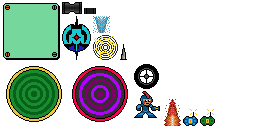
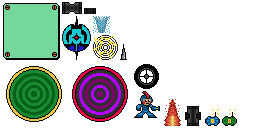
updated levelloader and level resources with cannon assets

Changed region(s): [[0.7188, 0.8125, 0.9375, 1.0]]

diff --git a/core/src/com/udacity/gamedev/gigagal/util/LevelLoader.java b/core/src/com/udacity/gamedev/gigagal/util/LevelLoader.java
@@ -123,7 +123,11 @@ public final class LevelLoader {
             } else if (item.get(Constants.LEVEL_IMAGENAME_KEY).equals(Constants.LATERAL_CANNON_SPRITE)) {
                 final Vector2 cannonPosition = imagePosition.add(Constants.LATERAL_CANNON_CENTER);
                 Gdx.app.log(TAG, "Loaded the cannon at " + cannonPosition);
-                level.getGrounds().add(new Cannon(cannonPosition));
+                level.getGrounds().add(new Cannon(cannonPosition, Enums.Orientation.LATERAL));
+            } else if (item.get(Constants.LEVEL_IMAGENAME_KEY).equals(Constants.LATERAL_CANNON_SPRITE)) {
+                final Vector2 cannonPosition = imagePosition.add(Constants.LATERAL_CANNON_CENTER);
+                Gdx.app.log(TAG, "Loaded the cannon at " + cannonPosition);
+                level.getGrounds().add(new Cannon(cannonPosition, Enums.Orientation.VERTICAL));
             } else if (item.get(Constants.LEVEL_IMAGENAME_KEY).equals(Constants.PILLAR_SPRITE)) {
                 final Vector2 pillarPosition = imagePosition.add(Constants.PILLAR_CENTER);
                 Gdx.app.log(TAG, "Loaded the pillar at " + pillarPosition);

diff --git a/core/src/com/udacity/gamedev/gigagal/entities/Cannon.java b/core/src/com/udacity/gamedev/gigagal/entities/Cannon.java
@@ -25,9 +25,11 @@ public class Cannon implements Ground {
             case VERTICAL:
                 region = Assets.getInstance().getCannonAssets().verticalCannon;
                 center = Constants.VERTICAL_CANNON_CENTER;
+                break;
             case LATERAL:
                 region = Assets.getInstance().getCannonAssets().lateralCannon;
                 center = Constants.LATERAL_CANNON_CENTER;
+                break;
         }
     }
 
